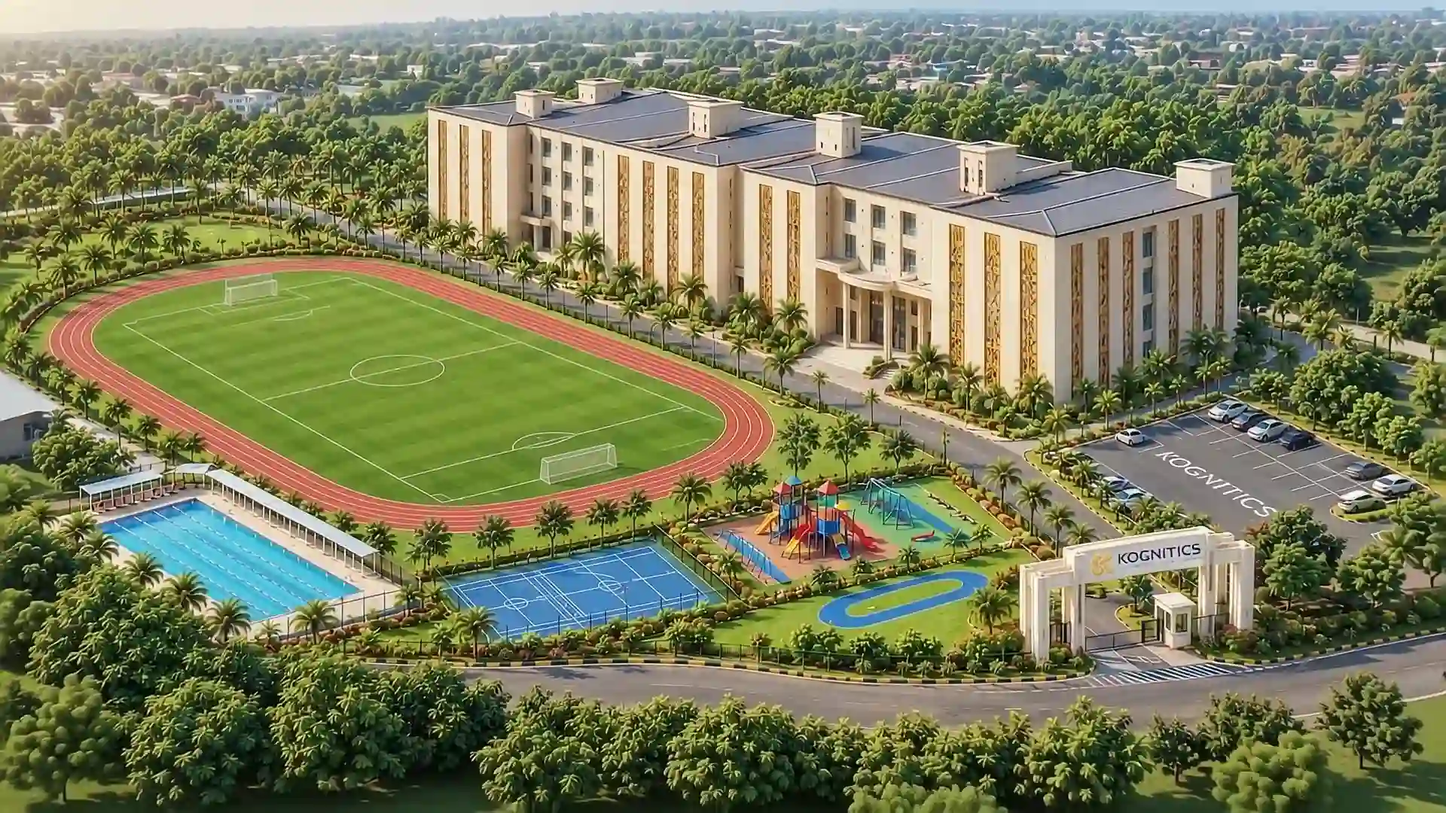
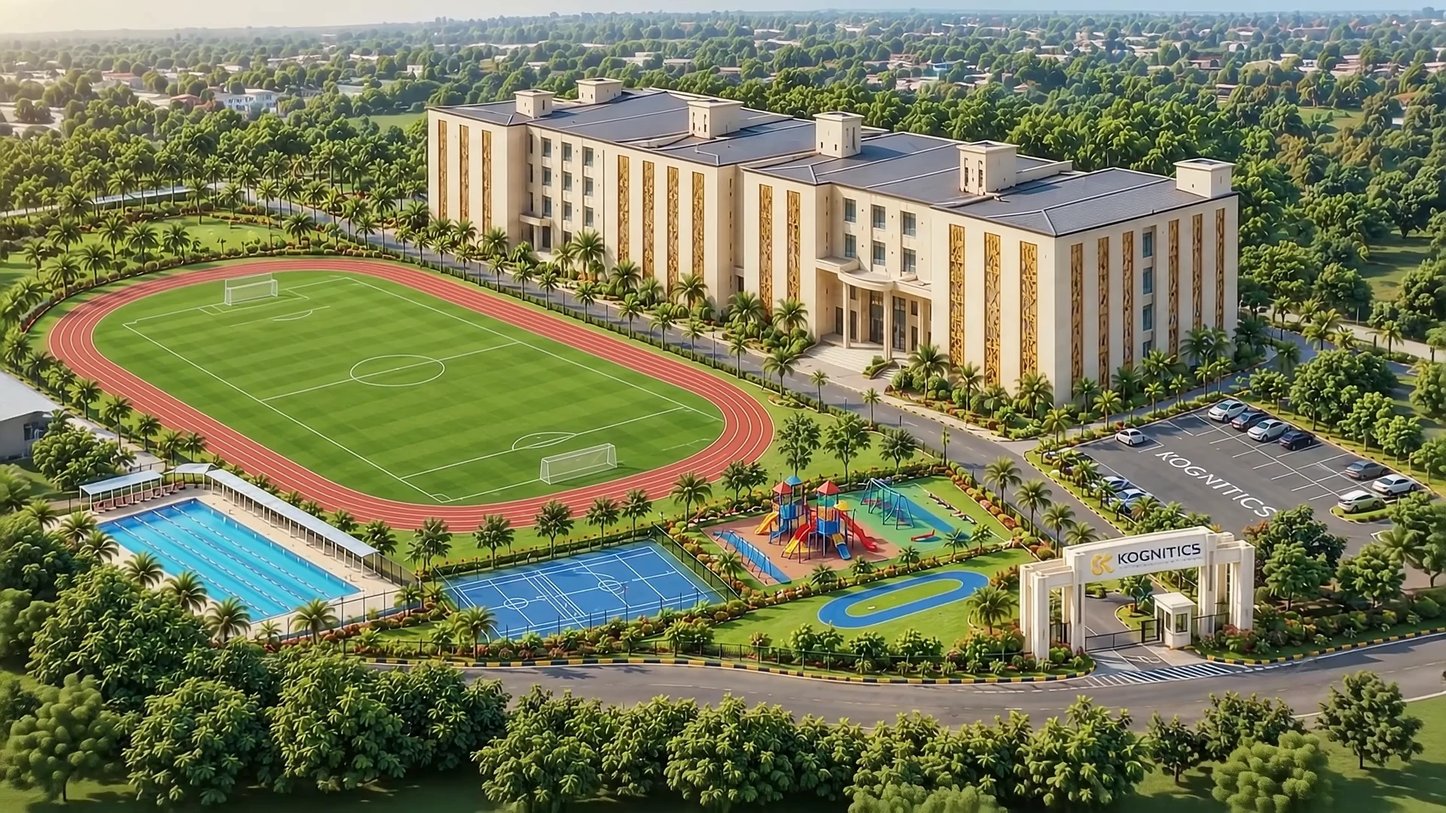
feat(hero): use Hero-Scroll.mp4 video and updated first-frame poster

diff --git a/content/hero.ts b/content/hero.ts
@@ -11,7 +11,7 @@ export const heroContent = {
   ctaHref: "#universe",
   scrollCueText: "Scroll to explore",
   tagline: "Cognitive Excellence · Character · Future-Ready",
-  videoSrc: "/assets/hero-campus-optimized.mp4",
+  videoSrc: "/assets/hero-scroll.mp4",
   posterSrc: "/assets/hero-poster.webp",
 };
 
